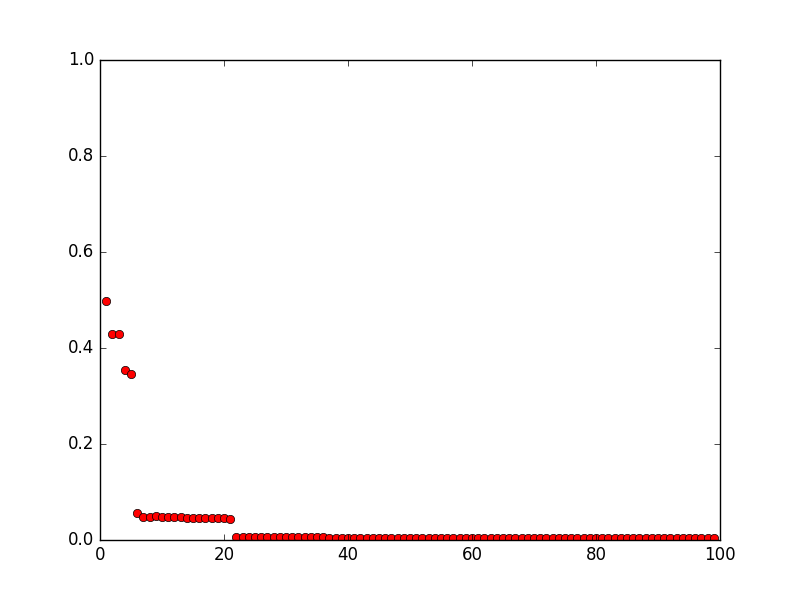
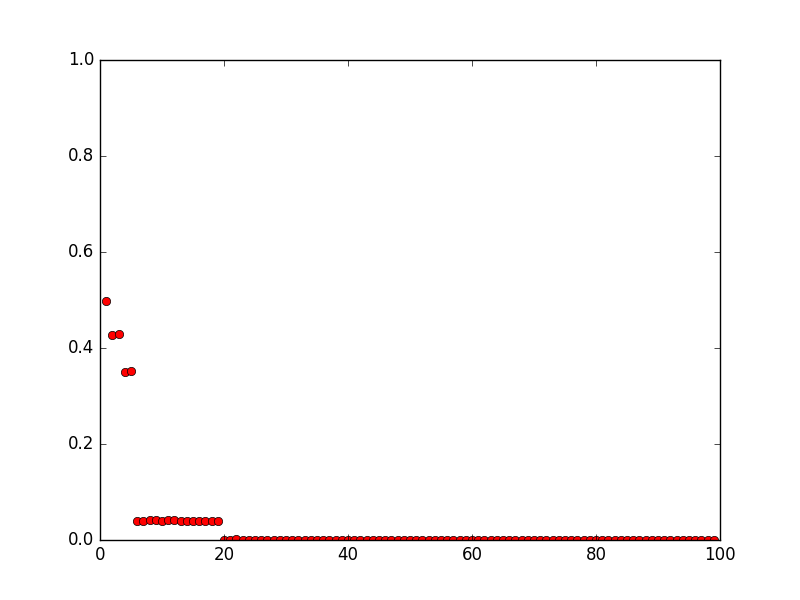
update

Changed region(s): [[0.1562, 0.84, 0.9062, 0.9], [0.1562, 0.6, 0.1875, 0.63]]

diff --git a/rbf.py b/rbf.py
@@ -22,7 +22,7 @@ def least_squares(data, values, N = None):
     w = np.linalg.solve(phi, values)
     return w, rbfs
 
-def iterative_batch(train_data, test_data, values, error=0.1, N = None):
+def iterative_batch(train_data, test_data, train_values, test_values, error=0.1, N = None):
     if N == None:
         N = len(train_data)
     w = np.random.normal(-1, 1, N)
@@ -31,11 +31,11 @@ def iterative_batch(train_data, test_data, values, error=0.1, N = None):
     rbfs = [RBF(m, s) for m, s in zip(mu, sig)]
     big_phi = np.array([[rbf.phi(x) for rbf in rbfs] for x in train_data])
 
-    w = np.linalg.lstsq(big_phi.T.dot(big_phi), big_phi.T.dot(values), rcond=-1)[0]
+    w = np.linalg.lstsq(big_phi.T.dot(big_phi), big_phi.T.dot(train_values), rcond=-1)[0]
 
     # Test data error
     big_phi = np.array([[rbf.phi(x) for rbf in rbfs] for x in test_data])
-    total_error =  sum((big_phi.dot(w) - values) ** 2)/len(test_data)
+    total_error =  sum((big_phi.dot(w) - test_values) ** 2)/len(test_data)
     return w, rbfs, total_error
 
 def least_squares_sin_noise(N=5, shouldPlot=True):
@@ -43,48 +43,52 @@ def least_squares_sin_noise(N=5, shouldPlot=True):
     test_data = list(np.arange(0.05, 2*np.pi, 0.1))
     train_noise = np.random.normal(0,0.1,len(train_data))
     test_noise = np.random.normal(0,0.1,len(test_data))
-    train_data += train_noise
-    test_data += test_noise
-    values = np.array([np.sin(2*x) for x in train_data])
-    w, rbfs, error = iterative_batch(train_data, test_data, values, N=N)
+    train_values = np.array([np.sin(2*x) for x in train_data])
+    test_values = np.array([np.sin(2*x) for x in test_data])
+    train_values += train_noise
+    test_values += test_noise
+    w, rbfs, error = iterative_batch(train_data, test_data, train_values, test_values, N=N)
     result = [run(w, rbfs, x) for x in test_data]
     if shouldPlot:
-        plot.plot(train_data, values, [-1, 1])
+        plot.plot(train_data, train_values, [-1, 1])
         plot.plot(test_data, result, [-1, 1])
     return error
 
 def least_squares_square(N=5, shouldPlot=True):
     train_data = list(np.arange(0, 2*np.pi, 0.1))
     test_data = list(np.arange(0.05, 2*np.pi, 0.1))
-    values = np.array([1 if x < np.pi/2 or (x>np.pi and x<3*np.pi/2) else -1 for x in train_data])
-    w, rbfs, error = iterative_batch(train_data, test_data, values, N=N)
+    train_values = np.array([1 if x < np.pi/2 or (x>np.pi and x<3*np.pi/2) else -1 for x in train_data])
+    test_values = np.array([1 if x < np.pi/2 or (x>np.pi and x<3*np.pi/2) else -1 for x in test_data])
+    w, rbfs, error = iterative_batch(train_data, test_data, train_values, test_values, N=N)
     result = [run(w, rbfs, x) for x in test_data]
     if shouldPlot:
-        plot.plot(train_data, values, [-1, 1])
+        plot.plot(train_data, train_values, [-1, 1])
         plot.plot(test_data, result, [-1, 1])
     return error
 
 def least_squares_square_modified(N=5, shouldPlot=True):
     train_data = list(np.arange(0, 2*np.pi, 0.1))
     test_data = list(np.arange(0.05, 2*np.pi, 0.1))
-    values = np.array([1 if x < np.pi/2 or (x>np.pi and x<3*np.pi/2) else -1 for x in train_data])
-    w, rbfs, error = iterative_batch(train_data, test_data, values, N=N)
+    train_values = np.array([1 if x < np.pi/2 or (x>np.pi and x<3*np.pi/2) else -1 for x in train_data])
+    test_values = np.array([1 if x < np.pi/2 or (x>np.pi and x<3*np.pi/2) else -1 for x in test_data])
+    w, rbfs, error = iterative_batch(train_data, test_data, train_values, test_values, N=N)
     result = [run(w, rbfs, x) for x in test_data]
     result = [1 if x>0 else -1 for x in result]
-    error =  sum((result - values) ** 2)/len(test_data)
+    error =  sum((result - test_values) ** 2)/len(test_data)
     if shouldPlot:
-        plot.plot(train_data, values, [-1, 1])
+        plot.plot(train_data, train_values, [-1, 1])
         plot.plot(test_data, result, [-1, 1])
     return error
 
 def least_squares_sin(N=5, shouldPlot=True):
     train_data = list(np.arange(0, 2*np.pi, 0.1))
     test_data = list(np.arange(0.05, 2*np.pi, 0.1))
-    values = np.array([np.sin(2*x) for x in train_data])
-    w, rbfs, error = iterative_batch(train_data, test_data, values, N=N)
+    train_values = np.array([np.sin(2*x) for x in train_data])
+    test_values = np.array([np.sin(2*x) for x in test_data])
+    w, rbfs, error = iterative_batch(train_data, test_data, train_values, test_values, N=N)
     result = [run(w, rbfs, x) for x in test_data]
     if shouldPlot:
-        plot.plot(train_data, values, [-1, 1])
+        plot.plot(train_data, train_values, [-1, 1])
         plot.plot(test_data, result, [-1, 1])
     return error
 
@@ -93,9 +97,9 @@ if __name__ == "__main__":
     test_nodes = [_ for _ in range(1, num)]
     result = []
     for n in test_nodes:
-        #result.append(least_squares_sin(n, False))
+        result.append(least_squares_sin(n, False))
         #result.append(least_squares_square(n, False))
         #result.append(least_squares_sin_noise(n, False))
-        result.append(least_squares_square_modified(n, False))
+        #result.append(least_squares_square_modified(n, False))
 
     plot.plot(test_nodes, result, [0, 1])
